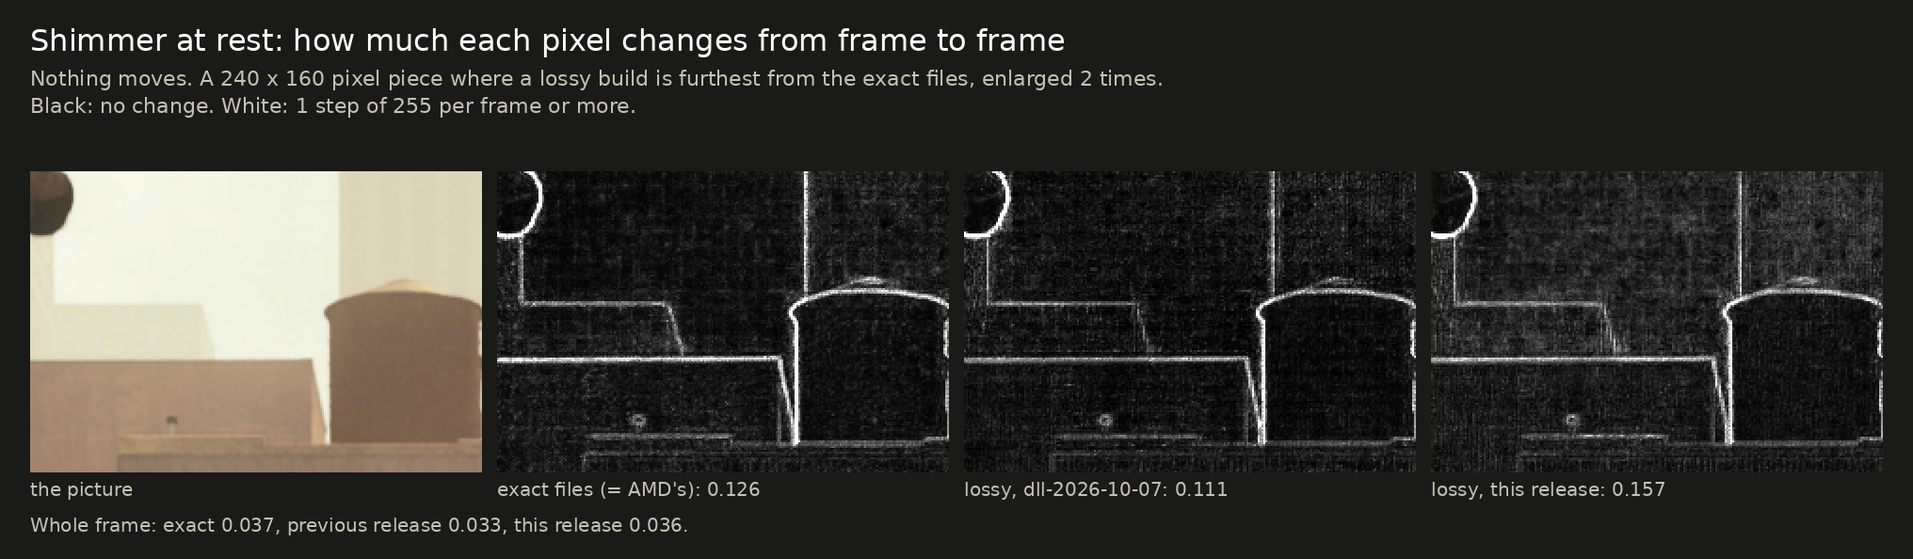
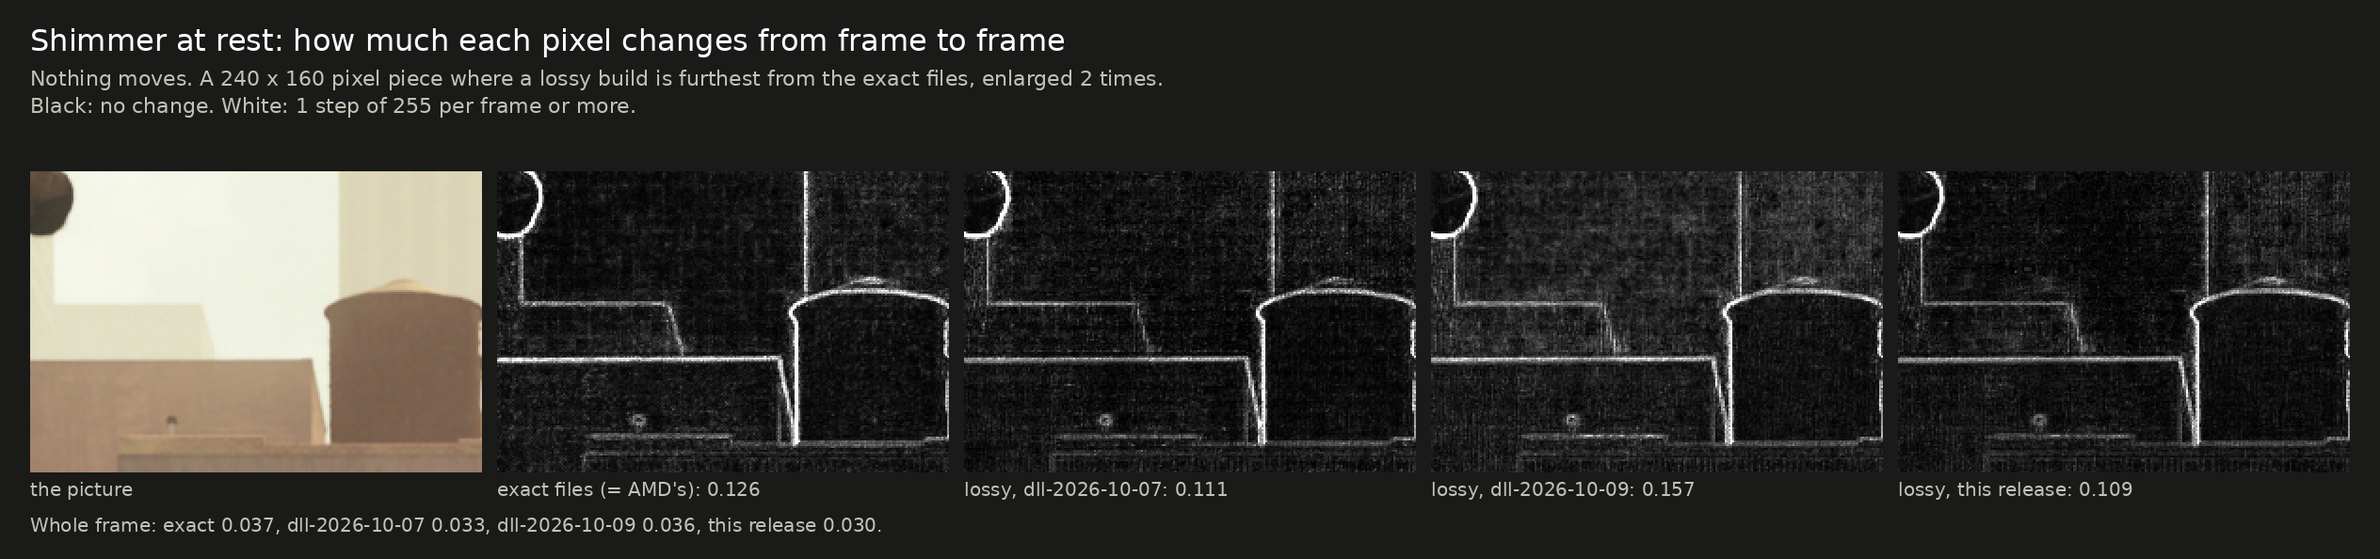
Exact vs lossy: pictures and figures regenerated for release dll-2026-10-10
Shimmer at rest now shows releases dll-2026-10-07, dll-2026-10-09 and this one beside
the exact files; a new sheet shows the still scene with grain. The still, motion and
particle sheets are redrawn with the new lossy build.

diff --git a/docs/img/make_comparison_crops.py b/docs/img/make_comparison_crops.py
@@ -1,10 +1,12 @@
 #!/usr/bin/env python3
 # SPDX-License-Identifier: GPL-2.0-or-later
 # make_comparison_crops.py <dir>: the comparison images of docs/exact-vs-lossy.md (cmp-still.png,
-# cmp-motion.png, cmp-flicker.png, cmp-particles.png), from test-rig output (research/pruning: fsr4img with
+# cmp-motion.png, cmp-flicker.png, cmp-grain.png, cmp-particles.png), from test-rig output (research/pruning: fsr4img with
 # gen_inputs.py / gen_motion.py, 4K Balanced, 40 frames, the last 8 kept). <dir> holds, for X = exact (the main
-# files), prev (the lossy build of release dll-2026-10-07) and lossy (the current lossy build):
+# files), prev (the lossy build of release dll-2026-10-07) and lossy (the current lossy build, release dll-2026-10-10):
 #   still_X/                 output_3840x2160_f032..039.raw (RGBA16F), and still_truth.npy, the true 4K image
+#   still_r9/, grain_X/, grain_r9/   the same frames with the lossy build of release dll-2026-10-09 (r9), and of the still scene
+#       with random grain added to every input frame (standard deviation 6 of 255, sRGB)
 #   motion_X/, part_X/, big_X/   frame 37 (a frame the lossy builds skip the model for) of the moving scene, of the scene
 #       with tiny fast particles and of the one with large particles (camera still; the particles are in the color image
 #       only, without motion vectors), and motion_truth_037.npy, part_truth_037.npy, big_truth_037.npy
@@ -89,8 +91,8 @@ dp, dl = np.abs(E[7] - P[7]).mean(2), np.abs(E[7] - L[7]).mean(2)
 s = box(dp, K)[200:-200, 200:-200]; y, x = np.unravel_index(np.argmax(s), s.shape); y += 200; x += 200
 crop = lambda a: a[y:y + K, x:x + K]
 print('still: window', x, y, 'difference from exact, previous %.2f now %.2f of 255; whole frame %.3f %.3f' % (crop(dp).mean() * 255, crop(dl).mean() * 255, dp.mean() * 255, dl.mean() * 255))
-sheet('Still scene: the spot where the previous release differed most',
-      f'A {K} x {K} pixel piece of the 4K output, enlarged 4 times.\nWhole-frame mean difference from the exact files: previous release {dp.mean() * 255:.2f}, this release {dl.mean() * 255:.2f} of 255.',
+sheet('Still scene: the spot where release dll-2026-10-07 differed most',
+      f'A {K} x {K} pixel piece of the 4K output, enlarged 4 times.\nWhole-frame mean difference from the exact files: dll-2026-10-07 {dp.mean() * 255:.2f}, this release {dl.mean() * 255:.2f} of 255.',
       [('', [('true image', rgb8(zoom(crop(tru), 4))), ("exact files (= AMD's)", rgb8(zoom(crop(E[7]), 4))),
              ('lossy, release dll-2026-10-07', rgb8(zoom(crop(P[7]), 4))), ('lossy, this release', rgb8(zoom(crop(L[7]), 4)))]),
        ('   difference from the exact files, 16 times amplified',
@@ -100,18 +102,36 @@ sheet('Still scene: the spot where the previous release differed most',
 
 # ---- flicker at rest
 fl_ = lambda F: np.mean([np.abs(a - b).mean(2) for a, b in zip(F, F[1:])], 0) * 255
-fe, fp, fl = fl_(E), fl_(P), fl_(L)
+R9 = [load('still_r9', n) for n in range(32, 40)]
+fe, fp, f9, fl = fl_(E), fl_(P), fl_(R9), fl_(L)
+del R9
 kw, kh = 240, 160
-s = box(np.maximum(fp, fl) - fe, kh)[200:-200, 200:-200 - (kw - kh)]; y, x = np.unravel_index(np.argmax(s), s.shape); y += 200; x += 200
+s = box(np.maximum(np.maximum(fp, f9), fl) - fe, kh)[200:-200, 200:-200 - (kw - kh)]; y, x = np.unravel_index(np.argmax(s), s.shape); y += 200; x += 200
 fy, fx0 = y, x
 cr = lambda a: a[fy:fy + kh, fx0:fx0 + kw]
-print('flicker: window', x, y, 'exact %.3f previous %.3f now %.3f; whole frame %.3f %.3f %.3f' % (cr(fe).mean(), cr(fp).mean(), cr(fl).mean(), fe.mean(), fp.mean(), fl.mean()))
+print('flicker: window', x, y, 'exact %.3f dll-2026-10-07 %.3f dll-2026-10-09 %.3f now %.3f; whole frame %.3f %.3f %.3f %.3f' % (cr(fe).mean(), cr(fp).mean(), cr(f9).mean(), cr(fl).mean(), fe.mean(), fp.mean(), f9.mean(), fl.mean()))
 heat = lambda a: gray(zoom(np.clip(cr(a) / 1.0, 0, 1), 2))        # white = 1 step of 255 per frame or more
 sheet('Shimmer at rest: how much each pixel changes from frame to frame',
       f'Nothing moves. A {kw} x {kh} pixel piece where a lossy build is furthest from the exact files, enlarged 2 times.\nBlack: no change. White: 1 step of 255 per frame or more.',
       [('', [('the picture', rgb8(zoom(cr(E[7]), 2))), (f"exact files (= AMD's): {cr(fe).mean():.3f}", heat(fe)),
-             (f'lossy, dll-2026-10-07: {cr(fp).mean():.3f}', heat(fp)), (f'lossy, this release: {cr(fl).mean():.3f}', heat(fl))])],
-      'cmp-flicker.png', note=f'Whole frame: exact {fe.mean():.3f}, previous release {fp.mean():.3f}, this release {fl.mean():.3f}.')
+             (f'lossy, dll-2026-10-07: {cr(fp).mean():.3f}', heat(fp)), (f'lossy, dll-2026-10-09: {cr(f9).mean():.3f}', heat(f9)),
+             (f'lossy, this release: {cr(fl).mean():.3f}', heat(fl))])],
+      'cmp-flicker.png', note=f'Whole frame: exact {fe.mean():.3f}, dll-2026-10-07 {fp.mean():.3f}, dll-2026-10-09 {f9.mean():.3f}, this release {fl.mean():.3f}.')
+
+# ---- the same still scene with grain in every input frame (random, 6 steps of 255 in standard deviation)
+G = {k: fl_([load(f'grain_{k}', n) for n in range(32, 40)]) for k in ('exact', 'prev', 'r9', 'lossy')}
+gpic = load('grain_exact', 39)
+s = box(G['r9'] - G['lossy'], kh)[200:-200, 200:-200 - (kw - kh)]; y, x = np.unravel_index(np.argmax(s), s.shape); gy, gx = y + 200, x + 200
+gc = lambda a: a[gy:gy + kh, gx:gx + kw]
+print('grain: window', gx, gy, ' '.join(f'{k} {gc(G[k]).mean():.3f}' for k in G), '; whole frame', ' '.join(f'{k} {G[k].mean():.3f}' for k in G))
+gheat = lambda a: gray(zoom(np.clip(gc(a) / 4.0, 0, 1), 2))        # white = 4 steps of 255 per frame or more
+sheet('Grain in the picture: how much each pixel changes from frame to frame',
+      f'Nothing moves, but every input frame carries random grain. A {kw} x {kh} pixel piece where this release gained most\nover dll-2026-10-09, enlarged 2 times. Black: no change. White: 4 steps of 255 per frame or more.',
+      [('', [('the picture (exact files)', rgb8(zoom(gc(gpic), 2))), (f"exact files (= AMD's): {gc(G['exact']).mean():.3f}", gheat(G['exact'])),
+             (f"lossy, dll-2026-10-07: {gc(G['prev']).mean():.3f}", gheat(G['prev'])), (f"lossy, dll-2026-10-09: {gc(G['r9']).mean():.3f}", gheat(G['r9'])),
+             (f"lossy, this release: {gc(G['lossy']).mean():.3f}", gheat(G['lossy']))])],
+      'cmp-grain.png', note=f"Whole frame: exact {G['exact'].mean():.3f}, dll-2026-10-07 {G['prev'].mean():.3f}, dll-2026-10-09 {G['r9'].mean():.3f}, this release {G['lossy'].mean():.3f}.\nAMD's shaders pass grain through on every frame; the lossy builds hold the picture steadier on the frames they skip.")
+del G
 
 # ---- moving scene, a skipped frame: thin bars and the edge a moving block has just uncovered
 N = 37
@@ -129,7 +149,7 @@ for label, (x0, y0, x1, y1) in (('Thin bars moving in front of a moving backgrou
                   (f'lossy, this release: {c(dl).mean() * 255:.1f}', rgb8(zoom(c(l), 4)))]))
 sheet('In motion, on a frame the lossy builds skip the model for',
       f'As if at 60 FPS (12 pixels of camera pan per frame).\n{K} x {K} pixel pieces where a lossy build is furthest off, enlarged 4 times.',
-      rows, 'cmp-motion.png', note=f'Whole frame, error against the true image: exact {de.mean() * 255:.2f}, previous release {dv.mean() * 255:.2f}, this release {dl.mean() * 255:.2f} of 255.')
+      rows, 'cmp-motion.png', note=f'Whole frame, error against the true image: exact {de.mean() * 255:.2f}, dll-2026-10-07 {dv.mean() * 255:.2f}, this release {dl.mean() * 255:.2f} of 255.')
 
 # ---- particles without motion vectors, on a skipped frame
 rows = []; KP = 72
@@ -144,8 +164,8 @@ for scene, label, z in (('part', 'Tiny, fast sparks (about 1 pixel in radius, up
                  [('true image', rgb8(zoom(c(t), z))), (f"exact (= AMD's): {c(de).mean() * 255:.1f}", rgb8(zoom(c(e), z))), (f'lossy, dll-2026-10-07: {c(dv).mean() * 255:.1f}', rgb8(zoom(c(pv), z))),
                   (f'lossy, this release: {c(dl).mean() * 255:.1f}', rgb8(zoom(c(l), z)))]))
 sheet('Particles the game draws without motion vectors, on a skipped frame',
-      f'Camera still. Bright dots in the color image only, as games draw sparks and embers.\n{KP} x {KP} pixel pieces of the 4K output where this release gained most, enlarged 5 times.',
-      rows, 'cmp-particles.png', note='The previous release kept them where they were, or dimmed them. This release takes them from the new\nframe; its seams and blockiness are where neighboring pixels were judged differently.')
+      f'Camera still. Bright dots in the color image only, as games draw sparks and embers.\n{KP} x {KP} pixel pieces of the 4K output where this release gained most over dll-2026-10-07, enlarged 5 times.',
+      rows, 'cmp-particles.png', note='Release dll-2026-10-07 kept them where they were, or dimmed them. Since dll-2026-10-09 they are taken from the\nnew frame; the seams and blockiness are where neighboring pixels were judged differently.')
 
 # ---- the second outline beside a moving object (fixed in release dll-2026-10-07), on a skipped frame
 GN = 37

diff --git a/docs/exact-vs-lossy.md b/docs/exact-vs-lossy.md
@@ -8,7 +8,7 @@
 - **Lossy:** faster again, because it runs FSR 4's neural network on every other frame only. The picture is very close to
   AMD's but not the same.
 - **What you would notice with lossy, if anything:** slightly softer fine detail in a still view, and edges of fast-moving
-  things a little rougher for a frame. Sparks and embers, which the previous release got wrong, are handled now.
+  things a little rougher for a frame. Sparks and embers, which releases before `dll-2026-10-09` got wrong, are handled now.
 - **Which to pick:** exact if you are unsure or use frame generation at a low frame rate; lossy if you run at a high frame
   rate and want more.
 
@@ -143,27 +143,23 @@ Five repairs keep the rest honest (the fifth is the one just described):
 
 ## What the lossy builds cost, measured
 
-> **Release `dll-2026-10-10` changed the lossy build again** (less shimmer on grain and on bright flat areas). The table and
-> pictures below are still those of `dll-2026-10-09`. The new build's figures: still picture 44.06 dB; thin vertical /
-> horizontal detail 26.29 / 27.99 dB; flicker at rest on fine detail 0.101; change on thin vertical detail at rest 0.352;
-> moving scene background 48.72 dB, railing 41.30 dB, just-uncovered areas 36.45 dB; still camera railing 41.11 dB,
-> just-uncovered 31.98 dB; the worst piece in "Shimmer at rest" 0.109 (was 0.157). Large soft particles show more of a seam
-> than in the particle pictures below. [What changed and why](../research/frame-skip#shimmer-reported-after-release-dll-2026-10-09-two-causes).
+> **Updated for release `dll-2026-10-10`,** which changed the lossy build again: less shimmer on grain and on bright flat
+> areas. The "Lossy" column and the pictures are this release's. [What changed and why](../research/frame-skip#shimmer-reported-after-release-dll-2026-10-09-two-causes).
 
 Test scene at 4K Balanced. "Lossy" is the release build: frame skip on AMD's model, motion following, the rest rule and the repairs.
-"Release `dll-2026-10-07`" is the previous lossy build, which also folded weights.
+"Release `dll-2026-10-07`" is an earlier lossy build, which folded weights in six of the model's layers; the current one does so lightly in the first layer only.
 
 | | AMD's (= exact files) | Release `dll-2026-10-07` | Lossy | Lossy, against AMD's |
 |---|---|---|---|---|
 | Still picture against the true image | 44.31 dB | 43.60 dB | 44.06 dB | within 0.6%; 6% more error |
-| Thin vertical / horizontal detail in the still picture | 27.09 / 28.23 dB | 25.89 / 27.64 dB | 26.34 / 28.03 dB | 0.75 / 0.2 dB below |
-| Flicker at rest on fine detail (lower is steadier) | 0.110 | 0.109 | 0.109 | level |
-| Frame-to-frame change on thin vertical detail at rest | 0.364 | 0.380 | 0.377 | 4% more |
-| Moving scene: background | 49.27 dB | 48.61 dB | 48.85 dB | within 0.9%; 10% more error |
-| Moving scene: thin railing | 41.82 dB | 41.12 dB | 41.27 dB | within 1.3%; 13% more error |
-| Moving scene: areas a moving object has just uncovered | 34.48 dB | 36.56 dB | 36.47 dB | 6% above; 37% less error |
-| Still camera, objects moving: thin railing | 42.20 dB | 40.99 dB | 41.23 dB | within 2.3%; 25% more error |
-| Still camera, objects moving: just-uncovered areas | 32.62 dB | 30.93 dB | 31.83 dB | within 2.4%; 20% more error |
+| Thin vertical / horizontal detail in the still picture | 27.09 / 28.23 dB | 25.89 / 27.64 dB | 26.29 / 27.99 dB | 0.8 / 0.25 dB below |
+| Flicker at rest on fine detail (lower is steadier) | 0.110 | 0.109 | 0.101 | 8% less |
+| Frame-to-frame change on thin vertical detail at rest | 0.364 | 0.380 | 0.352 | 3% less |
+| Moving scene: background | 49.27 dB | 48.61 dB | 48.72 dB | within 1.1%; 14% more error |
+| Moving scene: thin railing | 41.82 dB | 41.12 dB | 41.30 dB | within 1.2%; 13% more error |
+| Moving scene: areas a moving object has just uncovered | 34.48 dB | 36.56 dB | 36.45 dB | 6% above; 36% less error |
+| Still camera, objects moving: thin railing | 42.20 dB | 40.99 dB | 41.11 dB | within 2.6%; 29% more error |
+| Still camera, objects moving: just-uncovered areas | 32.62 dB | 30.93 dB | 31.98 dB | within 2.0%; 16% more error |
 | Revealed strip when a pan starts on a skipped frame | 100% of true brightness | 100% | 99 to 100% | the same |
 
 The pan-start row was measured on the build without the particle tests; they do not act on that strip's test.
@@ -172,12 +168,12 @@ The pan-start row was measured on the build without the particle tests; they do 
 column also gives the same gap as error: how much further the picture is from the true image than
 AMD's is. The exact files are 100% of AMD's in every row: the same bytes.
 
-- **Fine detail at rest shimmers no more than with AMD's shaders** on the broad measure (0.109
-  against 0.110); on thin vertical detail alone the frame-to-frame change is 4% above AMD's.
-- **The still picture is about 0.25 dB less accurate** (0.7 dB in the previous release): running
+- **Fine detail at rest shimmers slightly less than with AMD's shaders** (0.101 against 0.110), and so
+  does thin vertical detail alone (3% less; it was 4% more in release `dll-2026-10-09`).
+- **The still picture is about 0.25 dB less accurate** (0.7 dB in release `dll-2026-10-07`): running
   the model on half the frames builds the picture from half the jitter positions.
-- **Just-uncovered areas score above AMD's in the panning scene** (36.47 against 34.48 dB) and
-  about 0.8 dB below with the camera still and objects moving.
+- **Just-uncovered areas score above AMD's in the panning scene** (36.45 against 34.48 dB) and
+  about 0.6 dB below with the camera still and objects moving.
 - **Beside moving objects, most cases are at AMD's level; two are not.** On the measure of what
   is left where an object's previous image would land (8-bit steps, skipped frames):
 
@@ -216,49 +212,59 @@ AMD's is. The exact files are 100% of AMD's in every row: the same bytes.
 ## What the difference looks like
 
 Pieces of the test rig's 4K output with three builds side by side: the exact files, the lossy
-build of the previous release (`dll-2026-10-07`) and this release's lossy build. The exact files
+build of release `dll-2026-10-07` and this release's lossy build (`dll-2026-10-10`); the two shimmer
+pictures also show release `dll-2026-10-09`, whose shimmer this release fixes. The exact files
 give the same bytes as AMD's shaders, so their panels are also AMD's picture. **These are the
 places where the builds differ most, enlarged;** over a whole frame the differences are far
 smaller, and each caption gives the whole-frame figure. The places are picked by the script from
 the data, not by hand: [`img/make_comparison_crops.py`](img/make_comparison_crops.py).
 
 **At rest.** The largest difference in a still frame is on thin structures. Over the whole frame
-this release differs from the exact files by 0.12 of 255 on average, the previous one by 0.14;
-at the spot where the previous release was furthest off, 0.67 against 0.71.
+this release differs from the exact files by 0.11 of 255 on average, release `dll-2026-10-07` by 0.14;
+at the spot where that release was furthest off, 0.66 against 0.71.
 
-<img src="img/cmp-still.png" width="760" alt="Still scene, a 90 by 90 pixel piece of the 4K output enlarged four times, at the spot where the previous lossy release differed most from the exact files: the true image, the exact files, the lossy build of release dll-2026-10-07 and this release's lossy build, and under the two lossy panels their difference from the exact files amplified sixteen times: 0.71 and 0.67 of 255. Thin railings look slightly softer in both lossy panels.">
+<img src="img/cmp-still.png" width="760" alt="Still scene, a 90 by 90 pixel piece of the 4K output enlarged four times, at the spot where the lossy build of release dll-2026-10-07 differed most from the exact files: the true image, the exact files, the lossy build of release dll-2026-10-07 and this release's lossy build, and under the two lossy panels their difference from the exact files amplified sixteen times: 0.71 and 0.66 of 255. Thin railings look slightly softer in both lossy panels.">
 
 **Shimmer at rest.** How much each pixel changes between consecutive frames when nothing moves.
-The piece shown is the worst one for a lossy build, and it is worse in this release than in the
-previous one: 0.157 of 255 per frame against 0.111, with the exact files at 0.126. It comes
-from the other change in this release, the move from the folded network back to AMD's exact one:
-with frame skip, bright flat areas move more from a skipped frame to the next full one, and the
-folded first layer of the earlier builds happened to damp that. The particle handling is not the
-cause; a build without it reads the same 0.157 here (corrected 2026-10-10: this page first blamed
-the particle handling). Over the whole frame all three are close (exact 0.037,
-previous release 0.033, this release 0.036), and on fine detail overall this release is level
-with AMD's (0.109 against 0.110).
+The piece shown is the one where a lossy build is furthest above the exact files. Release
+`dll-2026-10-09` read 0.157 of 255 per frame there, against 0.126 for the exact files: with frame
+skip on AMD's unchanged network, bright flat areas (the wall and sky in this piece) moved more
+from a skipped frame to the next full one. This release reads 0.109, below the exact files and
+level with release `dll-2026-10-07` (0.111). The change that did it is small: a few of the smallest
+weights in the network's first layer are merged into their neighbors. Over the whole frame:
+exact 0.037, `dll-2026-10-07` 0.033, `dll-2026-10-09` 0.036, this release 0.030.
 
-<img src="img/cmp-flicker.png" width="760" alt="Shimmer at rest: a 240 by 160 pixel piece of the still scene, and maps of how much each pixel changes from frame to frame with the exact files (mean 0.126 of 255), the lossy build of release dll-2026-10-07 (0.111) and this release's lossy build (0.157). The maps look alike; the last one is slightly brighter on the finest detail.">
+<img src="img/cmp-flicker.png" width="760" alt="Shimmer at rest: a 240 by 160 pixel piece of the still scene showing a bright wall, sky and a water tank, and four maps of how much each pixel changes from frame to frame: the exact files (mean 0.126 of 255), the lossy build of release dll-2026-10-07 (0.111), of release dll-2026-10-09 (0.157) and of this release (0.109). Edges look alike in all four; the flat wall and sky carry a faint texture that is strongest in the dll-2026-10-09 map and weakest in this release's.">
+
+**Grain in the picture.** The same still scene with random grain added to every input frame, as a
+game with film grain or noisy reflections gives FSR. AMD's shaders pass the grain on, so their
+picture changes most. The lossy builds hold the picture steadier on the frames they skip, but in
+release `dll-2026-10-09` the test that lets sparks through also let grain through, and the picture
+changed more than twice as much as in the release before (0.550 of 255 per frame over the whole
+frame, against 0.249). This release reads 0.316. The piece shown is the one where it gained most.
+The grain is synthetic, at one strength; stronger grain would still get through.
+
+<img src="img/cmp-grain.png" width="760" alt="Grain in the picture: a 240 by 160 pixel piece of a dark flat area of the still scene with random grain in every input frame, and four maps of how much each pixel changes from frame to frame: the exact files (mean 2.216 of 255, a dense bright speckle), the lossy build of release dll-2026-10-07 (0.218, nearly black), of release dll-2026-10-09 (1.361, a dense speckle again) and of this release (0.397, dark with scattered points).">
 
 **In motion, on a skipped frame.** Camera panning as if at 60 FPS. Thin bars in front of a moving
 background are where frame skip is weakest: in both lossy panels the bars are a little rougher
-(error 3.0 of 255 in this release, 3.1 in the previous one, 2.4 with the exact files). The edge a
+(error 3.0 of 255 in this release, 3.1 in release `dll-2026-10-07`, 2.4 with the exact files). The edge a
 moving block has just uncovered is the same in both lossy builds (1.3 against 1.0). Whole frame,
-the error against the true image is 1.17 of 255 in this release, 1.19 in the previous one and
+the error against the true image is 1.19 of 255 in this release and in release `dll-2026-10-07`, and
 1.14 with the exact files.
 
 <img src="img/cmp-motion.png" width="760" alt="Moving scene on a frame the lossy builds skip the model for, two 90 by 90 pixel pieces enlarged four times, each shown as true image, exact files, the lossy build of release dll-2026-10-07 and this release's lossy build. Thin dark bars in front of a moving background: error 2.4, 3.1 and 3.0 of 255. The edge a moving block has just uncovered: 1.0, 1.3 and 1.3.">
 
-**Particles without motion vectors, on a skipped frame.** This is where the two lossy builds
-differ most. Games draw sparks and embers into the picture without telling FSR that they move.
-The previous release kept them where they had been a frame ago, or showed them dimmed, on every
-other frame; this release takes them from the new frame.
+**Particles without motion vectors, on a skipped frame.** This is where the lossy builds before
+and since release `dll-2026-10-09` differ most. Games draw sparks and embers into the picture without telling FSR that they move.
+Release `dll-2026-10-07` kept them where they had been a frame ago, or showed them dimmed, on every
+other frame; since `dll-2026-10-09` they are taken from the new frame.
 
-<img src="img/cmp-particles.png" width="760" alt="Particles drawn without motion vectors on a skipped frame, camera still, two 72 by 72 pixel pieces enlarged five times, each shown as true image, exact files, the lossy build of release dll-2026-10-07 and this release's lossy build. Tiny fast sparks: the previous release shows one of three sparks displaced and one nearly gone (error 3.3 of 255); this release shows all three in place, slightly blocky (1.0; exact files 0.8). Larger particles: the previous release shows them displaced and broken up (15.1); this release shows them in place with thin seams across them (1.6; exact files 0.7).">
+<img src="img/cmp-particles.png" width="760" alt="Particles drawn without motion vectors on a skipped frame, camera still, two 72 by 72 pixel pieces enlarged five times, each shown as true image, exact files, the lossy build of release dll-2026-10-07 and this release's lossy build. Tiny fast sparks: release dll-2026-10-07 shows one of three sparks displaced and one nearly gone (error 3.3 of 255); this release shows all three in place, slightly blocky (1.1; exact files 0.8). Larger particles: release dll-2026-10-07 shows them displaced and broken up (15.1); this release shows them in place with seams across them (2.7; exact files 0.7).">
 
 - **In place, not yet clean.** In this release's panels the sparks are a little blocky and the
-  larger particles have thin seams across them. Neighboring pixels are judged one by one, and
+  larger particles have seams across them. The seams on large soft particles are stronger than in
+  release `dll-2026-10-09` (error around large particles 2.8 against 1.7 over the whole scene): that is the price of the grain fix. Neighboring pixels are judged one by one, and
   some take the new frame while the one beside them keeps part of the old picture. At normal
   size and in motion this was not visible in the two games it was checked in; enlarged five
   times on a still frame it is.

diff --git a/README.md b/README.md
@@ -135,6 +135,15 @@ test rig, and both are fixed in the lossy DLL. **The exact DLL is unchanged.**
 | Tiny fast sparks shown on skipped frames | 83% | 16% | 77% | 76% |
 | Still picture against the true image | 44.33 dB | 43.68 dB | 44.12 dB | 44.06 dB |
 
+How much each pixel changes from frame to frame when nothing moves, in the piece of the test
+picture where the previous release was worst (black is steady):
+
+<img src="docs/img/cmp-flicker.png" width="760" alt="Shimmer at rest: a 240 by 160 pixel piece of the still test scene showing a bright wall, sky and a water tank, and four maps of how much each pixel changes from frame to frame: the exact files (mean 0.126 of 255), the lossy build of release dll-2026-10-07 (0.111), of release dll-2026-10-09 (0.157) and of this release (0.109). The flat wall and sky carry a faint texture that is strongest in the dll-2026-10-09 map and weakest in this release's.">
+
+The same with grain in every frame, in the piece where this release gained most:
+
+<img src="docs/img/cmp-grain.png" width="760" alt="Grain in the picture: a 240 by 160 pixel piece of a dark flat area of the still test scene with random grain in every input frame, and four maps of how much each pixel changes from frame to frame: the exact files (mean 2.216 of 255, a dense bright speckle), the lossy build of release dll-2026-10-07 (0.218, nearly black), of release dll-2026-10-09 (1.361, a dense speckle again) and of this release (0.397, dark with scattered points).">
+
 - **Speed is unchanged:** 2.37 ms against 2.38 ms for the whole upscaler at 4K (timing kit, RX 7800 XT under Proton).
 - **What got worse:** large, soft glowing particles show more of a seam on skipped frames
   (error around them 2.8 against 1.7 in the rig; AMD's shaders 0.7), and the still picture is
